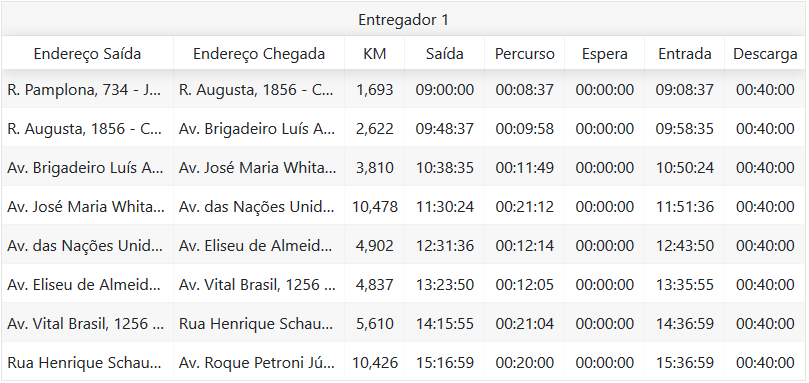
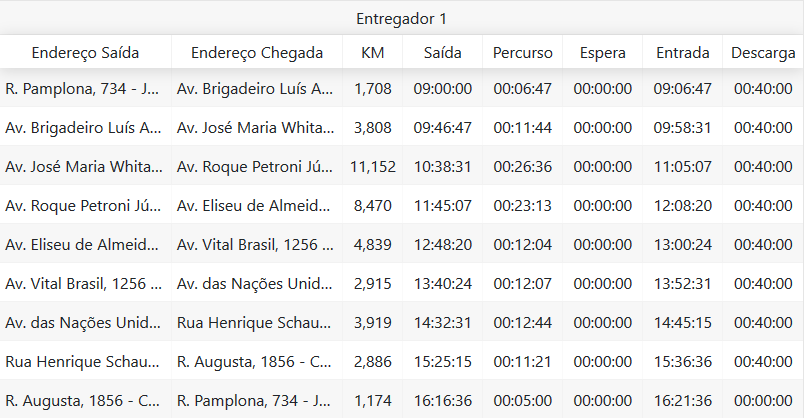
Atualização dos resultados, melhoria na conclusão e resultados. começo de uma nova escrita sobre a estrutura do projeto

diff --git a/Monografia/Latex/Conclusao.tex b/Monografia/Latex/Conclusao.tex
@@ -1,5 +1,5 @@
 \chapter{Conclusão}
-Nesse capítulo é apresentado como os testes foram organizados, as limitações do software, futuras melhorias e os resultados encontrados.
+Nesse capítulo é apresentado como os testes foram organizados, as limitações do software, os resultados encontrados e futuras melhorias.
 
 \section{Limitações}
 Na criação do software os testes nos iniciais já possível identificar possíveis situações que o software não tem como dar uma resposta, ou seja, suas limitações.
@@ -12,10 +12,10 @@ Identificamos 3 possíveis limitações nos testes iniciais:
 \textbf{Tempo limite de entrega excedido:} Se a rota não tiver nenhum percurso muito demorado e também for possível determinar a divisão da rota principal entre o numero de entregadores, podemos encontrar outro problema, sempre que um entregador chega a um destino, é possível sofre atrasos na descarga, um maior tempo de espera ou até o transito piorando por causa de um acidente em uma via principal, por exemplo, isso muda o tempo dos próximos percursos, podendo elevar muito o tempo do trajeto.
 É possível encontrar a situação que seria preciso mais entregadores para finalizar a entrega, que não é mais possível por que o entregador já está em transito, também pode encontrar um percurso completamente parado,  com isso, o software não consegue definir uma rota para finalizar as entregas.
 
+\pagebreak
 \section{Roteiros dos Testes}
 Os roteiros foram escolhidos de forma arbitraria com endereços dentro ou próximos da cidade de São Paulo. As listas de endereços e as rotas encontrada podem ser vista a baixo:
 
-\pagebreak
 O teste da tabela abaixo \ref{Roteiro1} começa o roteiro em Senac Nacões Unidas, endereço Av. Eng. Eusébio Stevaux, 823 - Santo Amaro, horário de saída 09:00, horário de volta 20:00, com 3 entregadores disponíveis e um tempo de espera médio em cada ponto 20 minutos.
 
 \begin{table}[h]
@@ -36,7 +36,7 @@ O teste da tabela abaixo \ref{Roteiro1} começa o roteiro em Senac Nacões Unida
 	\end{tabular}
 \end{table}
 
-O calculo da rota dividiu o roteiro para os 3 entregadores, de forma que, o percurso mais distante deve ser feito por apenas um entregador e os outros dois realizam as entregas dentro e proximidades da cidade. Os resultados completos estão nas tabelas abaixo.
+O calculo da rota dividiu o roteiro para 2 entregadores, mesmo com varias tentativas nenhuma foi possível com apenas um entregador. Isso é pelo fato que um dos endereços fica em outra cidade, levando muito tempo para ir e voltar da entrega. Baixo um dos resultados encontrados para desse roteiro.
 
 \begin{center}
 	\makebox[\linewidth]{
@@ -52,15 +52,8 @@ O calculo da rota dividiu o roteiro para os 3 entregadores, de forma que, o perc
 	\label{fig:Senac-Entregador2}
 \end{center}
 
-\begin{center}
-	\makebox[\linewidth]{
-		\includegraphics[keepaspectratio=true,scale=0.8]{ibagens/Senac-Entregador3.png}}
-	\captionof{figure}{Resultado do Entregador 3}
-	\label{fig:Senac-Entregador3}
-\end{center}
-
 \pagebreak
-O teste da Tabela \ref{Roteiro2} começa o roteiro no Extra Morumbi, endereço Av. das Nações Unidas, 16741 - Santo Amaro, horário de saída 06:00, horário de volta 22:00:00, com 4 entregadores disponíveis e um tempo de espera médio em cada ponto 60 minutos.
+O teste da Tabela \ref{Roteiro2} começa o roteiro no Extra Morumbi, endereço Av. das Nações Unidas, 16741 - Santo Amaro, horário de saída 06:00, horário de volta 22:00:00, com 3 entregadores disponíveis e um tempo de espera médio em cada ponto 60 minutos.
 \begin{table}[h]
 	\centering
 	\caption{Extra}
@@ -82,21 +75,13 @@ O teste da Tabela \ref{Roteiro2} começa o roteiro no Extra Morumbi, endereço A
 	\end{tabular}
 \end{table}
 
-O calculo da rota dividiu o roteiro para 2 entregadores, de forma que, 
-não foi preciso utilizar todos os disponíveis, um entregador ficou com o único endereço que o primeiro não iria consegui fazer, sendo necessário utilizar pouco tempo dele e com o roteiro quase inteiro utilizando apenas um entregador. Os resultados completos estão nas tabelas abaixo.
+O calculo da rota encontrou um rota que pode ser feita por apenas um entregador, de forma que, não foi preciso utilizar todos os disponíveis. Os resultados completos estão nas tabelas abaixo.
 
 \begin{center}
 	\makebox[\linewidth]{
 		\includegraphics[keepaspectratio=true,scale=0.8]{ibagens/Extra-Entregador1.png}}
 	\captionof{figure}{Resultado do Entregador 1}
 	\label{fig:Extra-Entregador1}
-\end{center}
-
-\begin{center}
-	\makebox[\linewidth]{
-		\includegraphics[keepaspectratio=true,scale=0.8]{ibagens/Extra-Entregador2.png}}
-	\captionof{figure}{Resultado do Entregador 2}
-	\label{fig:Extra-Entregador2}
 \end{center}
 
 \pagebreak
@@ -119,7 +104,7 @@ O teste da Tabela \ref{Roteiro3} começa o roteiro no McDonald's Jardim Paulista
 		McDonald's Santo Antônio      & Av. Roque Petroni Júnior, 1089 - Chácara Santo Antônio (Zona Sul), São Paulo - SP & 09:00    & 23:00 \\ \bottomrule
 	\end{tabular}
 \end{table}
-O calculo da rota dividiu o roteiro para apenas um entregador, de forma que, não foi preciso utilizar todos os 3 disponíveis. Os resultados completos estão na tabela abaixo.
+O calculo da rota dividiu o roteiro para apenas um entregador, de forma que, não foi preciso utilizar todos os 3 disponíveis. O resultado completo podem ser visto na tabela abaixo.
 
 \begin{center}
 	\makebox[\linewidth]{
@@ -129,6 +114,8 @@ O calculo da rota dividiu o roteiro para apenas um entregador, de forma que, nã
 \end{center}
 
 \pagebreak
+O teste da Tabela \ref{Roteiro4} começa o roteiro no Uninove Vergueiro, endereço Rua Vergueiro, 235/249 - Liberdade, São Paulo - SP, horário de saída 08:00, horário de volta 23:00:00, com 5 entregadores disponíveis e um tempo de espera médio em cada ponto 90 minutos.
+
 \begin{table}[h]
 	\centering
 	\caption{Uninove}
@@ -146,8 +133,21 @@ O calculo da rota dividiu o roteiro para apenas um entregador, de forma que, nã
 		Uninove Santo André           & R. Princesa Isabel - Vila Guiomar, Santo André - SP                           & 08:00    & 23:00 \\ \bottomrule
 	\end{tabular}
 \end{table}
+O calculo da rota dividiu o roteiro para 2 dos 5 entregadores disponíveis. O resultado completo podem ser visto nas tabelas abaixo.
 
-O teste da Tabela \ref{Roteiro4} começa o roteiro no Uninove Vergueiro, endereço Rua Vergueiro, 235/249 - Liberdade, São Paulo - SP, horário de saída 08:00, horário de volta 23:00:00, com 5 entregadores disponíveis e um tempo de espera médio em cada ponto 90 minutos.
+\begin{center}
+	\makebox[\linewidth]{
+		\includegraphics[keepaspectratio=true,scale=0.8]{ibagens/Uninove-Entregador1.png}}
+	\captionof{figure}{Resultado do Entregador 1}
+	\label{fig:Uninove-Entregador1}
+\end{center}
+
+\begin{center}
+	\makebox[\linewidth]{
+		\includegraphics[keepaspectratio=true,scale=0.8]{ibagens/Uninove-Entregador2.png}}
+	\captionof{figure}{Resultado do Entregador 2}
+	\label{fig:Uninove-Entregador2}
+\end{center}
 
 \pagebreak
 O teste da Tabela \ref{Roteiro5} simula a situação de 1 turista hospedado no Hotel Ibis São Paulo Paulista no endereço Av. Paulista, 2355 - Bela Vista, São Paulo - SP, em seu plano é conheço os endereços, permanecendo 30 minutos em cada, saindo do hotel 09:00 e voltando 23:00.
@@ -175,16 +175,27 @@ O teste da Tabela \ref{Roteiro5} simula a situação de 1 turista hospedado no H
 	\end{tabular}
 \end{table}
 
-Mesmo com varias tentativas, o calculador de rotas não encontrou um rota onde seria possível com apenas uma pessoa em um dia, visitar todos os endereços do roteiro. Alterando para 2 turistas torna possível realizar todas as visitas, porém como não se trata de entregas, é inviável o conseguir um resultado.
+Mesmo com varias tentativas, o calculador de rotas não encontrou um rota onde seria possível com apenas uma pessoa em um dia, visitar todos os endereços do roteiro. Alterando para um tempo de permanência menor de 30 minutos, depois de varias tentaria, foi possível obter um resultado que pode ser visto a baixo.
+
+\begin{center}
+	\makebox[\linewidth]{
+		\includegraphics[keepaspectratio=true,scale=0.8]{ibagens/Turista.png}}
+	\captionof{figure}{Resultado do Turista}
+	\label{fig:Turista}
+\end{center}
+
+Mesmo com o foco em entregas, o software poderia ser utilizado para outras funções, mesmo parecendo simples encontrar um roteiro que de para ver todos os pontos de interesse, se torna um trabalho complicado com você tem horários e tempo de percurso. O software por utilizar GA para encontrar a rota, teve dificuldade para encontrar uma rota que seria possível para apenas uma pessoa passar por todos esses lugares.
 
 \pagebreak
 \section{Comparativo}
+O software se mostrou eficiente para entrar uma rota que minimiza o numero de entregadores e respeitando os horários de cada endereço. Roteiros que, a primeira vista, parecem impossíveis de ser entregue, rotas foram encontradas e organizadas.
+O Google Maps ajuda na definição da rota por entregar o transito médio da rota fazendo com que o caminho escolhido pelo software fique mais próximo de uma situação real. 
 
-A implementação se mostrou eficiente na organização do roteiro, identificando padrões não muito visíveis entre todos os destinos. O Google Maps ajuda na definição da rota por entregar o transito médio da rota fazendo com que o caminho escolhido pelo software fique mais próximo de uma situação real. O GA ajuda na escolhas das rotas por exemplo tentar minimizar o tempo e a distância, mesmo podendo demorar para encontrar uma solução ótima se o numero de gerações for muito alto, o tamanho da população ou numero de rotas. 
+O GA ajuda na escolhas das rotas por exemplo tentar minimizar o tempo, a distância e o numero de entregadores, encontrando padrões difíceis de ser vistos, porém, para encontrar uma solução próxima do ótimo é preciso perder performance para calcular a resposta, aumentando o numero de gerações e população para encontrar a rota.
 
 Utilizando um numero baixo de destinos o processo de recalculo de rotas para cada vez que chegar em um  destino, se mostra útil para identificar mudanças no transito e ainda chegar no horário proposto. Em casos que é preciso calcular para muitos destinos,é mais recomendado somente utilizar para uma divisão de tarefas ou pré-analise do roteiro, por tornar a analise muito demora, o tamanho da população e numero de gerações precisa ser mais altos para melhor precisão dos resultados.
 
-Para comparativo foi utilizado os diferentes tipos de mutação e cruzamentos, de forma, a identificar uma melhor combinação para ser utilizada no problema. A tabela abaixo estão os resultados encontrados:
+Para comparativo foi utilizado os diferentes tipos de mutação e cruzamentos, de forma, a identificar uma melhor combinação para ser utilizada no software, 10 vezes para cada combinação utilizando a média do valor do valor de aptidão. A tabela abaixo estão os resultados encontrados:
 
 \begin{table}[h]
 	\centering

diff --git a/Monografia/Latex/Metodologia.tex b/Monografia/Latex/Metodologia.tex
@@ -47,14 +47,15 @@ A função de aptidão é definida como:
 
 Onde para cada ponto de entrega \textit{i} temos um \(e_i\)
 e um \(li\)  que representam, respectivamente, a abertura e o fechamento
-da janela de tempo do ponto \textit{i}, O \(tc_i\) é o tempo de chegada do veículo no ponto \(i\), \(te_i\) calculado como \(e_i - tc_i\). 
+da janela de tempo do ponto \textit{i}, O \(tc_i\) é o tempo de chegada do veículo no ponto \(i\), \(te_i\) calculado como \(e_i - tc_i\). 
+
 \(dk\) é a distância total percorrida na rota k para todo k=1,...,m, \(\alpha_i\)
 é um coeficiente de penalidade associado à chegada do veículo no vértice i após o fechamento da janela de tempo.
 
-
 O GA foi configurado com o numero de gerações em 200, tamanho da população em 1000, melhores indivíduos por geração em 20, probabilidade de cruzamento em 70\% e probabilidade de Mutação em 0,5\%.
 
-Os testes foram configurados com um numero de 6 roteiros diferentes, endereços dentro da cidade de São Paulo e cidades próximas. Utilizando 6 tipos de mutação, sendo SM, IVM, IM, EM, DM e DIVM, e 2 tipos de cruzamento, sendo PBX e OBX.
+Os testes foram configurados com um numero de 6 roteiros diferentes, endereços dentro da cidade de São Paulo e cidades próximas. Utilizando 4 tipos de mutação, sendo DisplacementMutation, InsertionMutation, InversionMutation e SwapMutation e um tipo de cruzamento, o SubRouteInsertionCrossover.
+
 Considerando o transito médio enviado pelo Google Maps, para poder demostrar o impacto do transito nos caminhos calculados.
 Tudo será rodado 10 vezes e será retirada uma média do valor de aptidão, por que, cada vez que roda o GA a resposta da solução pode mudar, por ele não ser determinístico.
 
@@ -80,124 +81,16 @@ Toda comunicação da interface com o calculador de rotas é por WebAPi Rest, on
 
 \section{Estrutura do Projeto}
 
-Para facilitar o entendimento inicial do projeto, é importante ter uma orientação de onde está cada parte de seu comportamento. A Solution do Visual Studio é divida em 4 projetos, onde eles são:
+Para facilitar o entendimento inicial do projeto, é importante ter uma orientação de onde está cada parte de seu comportamento. A Software é divido em 4 projetos principais, sendo um projeto feito em ReactJs e 3 em C\#, onde eles são:
 
-\subsection{PathFinder}
-Projeto com função de utilização do software em geral, agrupamento informações de dados iniciais e organizando o retorno para a exibição.
+\subsection{Calculador de Rotas- CalcRoute}
 
-\textbf{Program:} Implementação das união de todas as classes, executa a separação dos entregadores.
+\subsection{Gerador de Dados - CalcRoute.RouteGenerate}
 
-\textbf{Entregador:} Informação individual, armazena a rota completa do entregar e o genoma representante.
+\subsection{API de Calculo de Rotas - CalcRoute.API}
 
-\textbf{TimeMeasure:} Configuração de registro/exibição do tempo de processamento.
+\subsection{Interface para comunicação com a API - CalcRoute.Interface}
 
-\subsection{RouteGA}
-Projeto de WebApi para a comunicação com a interface, seu objetivo é converter os dados recebidos pelo interface e chamar métodos do projeto \textbf{PathFinder}, convertendo o retorno para uma melhor estrutura que será exibida na interface.
-
-\textbf{RouteController:} Implementação da comunicação da Api, recebe a requisição da interface, executa métodos do PathFinder e retorna uma lista da classe EntregadorViewModel para a interface.
-
-\textbf{EntregadorViewModel:} Classe de retorno para a interface agrupando todas as informações da rota do entregador.
-
-\textbf{LocalViewModel:} Classe de retorno para a interface agrupando todas as informações de um endereço.
-
-\textbf{RotaViewModel:} Classe de retorno para a interface agrupando todas as informações de uma rota.
-
-\textbf{RoteiroViewModel:} Classe de recebimento da interface agrupando todas as informações configuradas na interface para o calculo da rota.
-
-\subsection{PathFinder.Routes}
-Nesse projeto estão os algoritmos de comunicação com a  API Google Maps, classes para serialização dos retornos da API e classes para o agrupamento dos dados das rotas. Esse projeto é utilizado pelo genoma do GA para o recalculo das rotas
-
-\textbf{GoogleMaps:} Classes de estrutura para serialização do Json de retorno da API do Google Maps.
-
-\textbf{MapPoint:} Classe com informações do ponto de destino com latitude, longitude e janela de tempo para a entrega.
-
-\textbf{Period:} Classe para a definição da janela de tempo.
-
-\textbf{Route:} Classe para definição da origem e destino de uma rota, contendo o tempo e a distância entra os pontos.
-
-\textbf{RouteMap:} Classe para a definição da rota completa e o deposito. A definição de cada caminho completo é controlado nessa classe. 
-
-\textbf{SearchRoute:} Classe para a integração com a API do Google maps.
-
-\subsection{PathFinder.GeneticAlgorithm}
-Neste projeto são definidos todas as implementações referentes ao algoritmo genético, pela complexidade do algoritmo ele possui uma estrutura própria de pastas com algoritmos de seleção, cruzamento, mutação e a função de aptidão para definições e configurações de injeção de dependência.
-
-\subsection{Abstraction}
-
-Nesta pasta estão todos os arquivos a nível de abstração das etapas do algoritmo genético.
-
-\textbf{ISelection}: Interface responsável por abstrair os algoritmos de seleção.
-
-\textbf{IGenome}: Interface que tem como funcionalidade abstrair a definição de genoma.
-
-\textbf{IFitness}: Interface que tem como objetivo abstrair o calculo de fitness.
-
-\textbf{IMutate}: Interface que tem como objetivo abstrair os operadores de mutação.
-
-\textbf{ICrossover}:  Interface que tem como objetivo abstrair os operadores de cruzamento.
-
-\textbf{IRandom}: Interface que tem como objetivo abstrair a implementação de geração de números aleatórios.
-
-\textbf{AbstractMutate}: Implementação base para operador de mutação.
-
-\textbf{AbstractCrossover}: Implementação base para operador de cruzamento.
-
-\subsection{Core}
-
-\textbf{Enumerators}: Contem as definições de enumerações, usados para usar nomes bem definidos ao invés de números avulsos no código.
-
-\textbf{RandomAdapter}: Implementação responsável por gerar números aleatórios, implementa IRandom.
-
-\textbf{GASettings}: Arquivo responsável por carregar configuração estática de GA.
-
-\textbf{Genome}: Classe responsável por representar o genoma no algoritmo de GA, implementa a IGenome.
-
-\subsection{Selection}
-
-Nesta pasta estão todas as implementações dos algoritmos de seleção.
-
-\textbf{SelectionRouletteWheel}: Implementação de seleção roleta.
-
-\subsection{Crossover}
-
-Nesta pasta estão todas as implementações dos algoritmos de cruzamento.
-
-\textbf{CrossoverOBX}: Implementação do operador de cruzamento OBX.
-
-\textbf{CrossoverPBX}: Implementação do operador de cruzamento PBX.
-
-\subsection{Mutation}
-
-Nesta pasta estão todas as implementações dos algoritmos de mutação.
-
-\textbf{MutateBitwise}: Implementação do operador de cruzamento Bitwise.
-
-\textbf{MutateDIVM}: Implementação do operador de cruzamento DIVM.
-
-\textbf{MutateDM}: Implementação do operador de cruzamento DM.
-
-\textbf{MutateEM}: Implementação do operador de cruzamento EM.
-
-\textbf{MutateIM}: Implementação do operador de cruzamento IM.
-
-\textbf{MutateIVM}: Implementação do operador de cruzamento IVM.
-
-\textbf{MutateSM}: Implementação do operador de cruzamento SM.
-
-\subsection{Fitness}
-
-Nesta pasta estão todas as implementações dos algoritmos de fitness.
-
-\textbf{FitnessTimePath}: Implementação do fitness que considera o menor caminho e o tempo, para chegar no destino dentro da janela de tempo como a melhor solução.
-
-\section{Funcionalidades}
-O software é composto por funcionalidade individuais que podem ser utilizadas separadamente se necessário e também entender cada uma, ajuda a entender o software por completo.
-
-\textbf{Integração com a API do Google Maps:} Usando a classe SearchRoute do projeto PathFinder.Routes é possível procurar rotas e endereços do Google Maps e obter informação de coordenadas geográficas de um ponto usando o endereço, calcular rota entre dos dois usando o endereço ou com as coordenadas geográficas, obter um mapa estático de um ou vários pontos.
-
-\textbf{Algoritmos Genéticos} O modulo de GA poderia ser utilizado separadamente, porém é preciso o desenvolvimento da função de aptidão para o caso que ele será utilizado, o resto da estrutura funcionaria.
-
-\section{Interface}
 A interface é utilizada para interagir com o calculador de rotas de uma forma mais simples, podendo procurar por endereços, adicionar a lista, definir o deposito, os horários de cada endereço, numero de entregadores e tempo de descarga de cada endereço. Para melhor visualização dos testes, é possível encontrar todos os roteiros de teste para fácil execução e verifica os resultados.
 
 \begin{center}
@@ -239,4 +132,4 @@ A tabela tem 8 colunas com informações de cada percurso, essa colunas são:
 	\item Entrada: Horário que o entregador consegui entrar para começar a realizar a descarga da entrega.
 	\item Descarga: Tempo Médio para descarregador toda a encomenda.
 \end{itemize}
-Depois de finalizar a entrega o campo saída deve ser preenchido com o horário que está tudo pronto para fazer a próxima entrega e clicar no botão Próxima Rota, uma nova chamada para a Api será feita somente com o entregador pedido.
+Depois de finalizar a entrega o campo saída deve ser preenchido com o horário que está tudo pronto para fazer a próxima entrega e clicar no botão Próxima Rota, uma nova chamada para a Api será feita somente com o entregador pedido, esse processo pode ser repetido até que todas os endereços sejam visitados.
